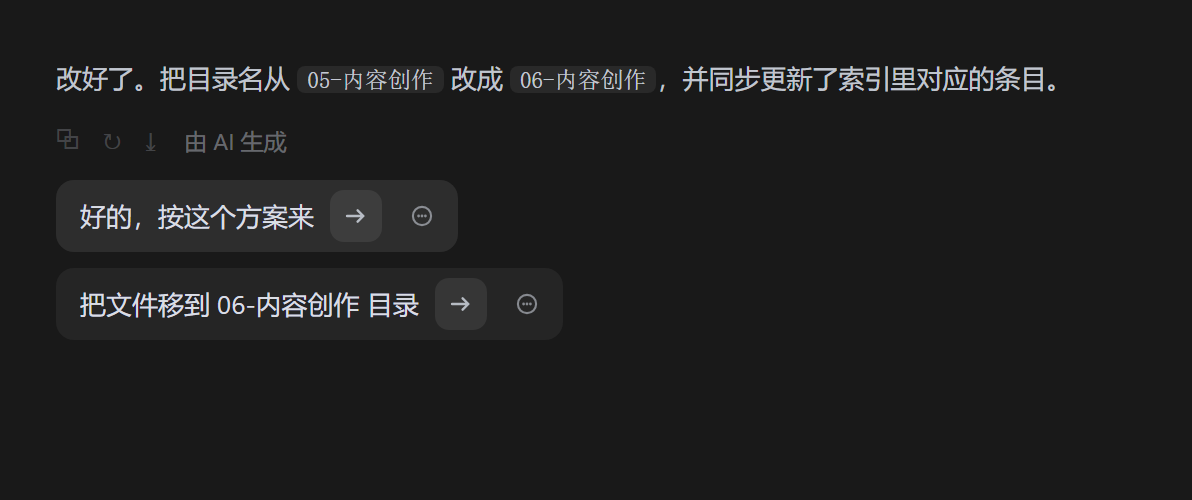
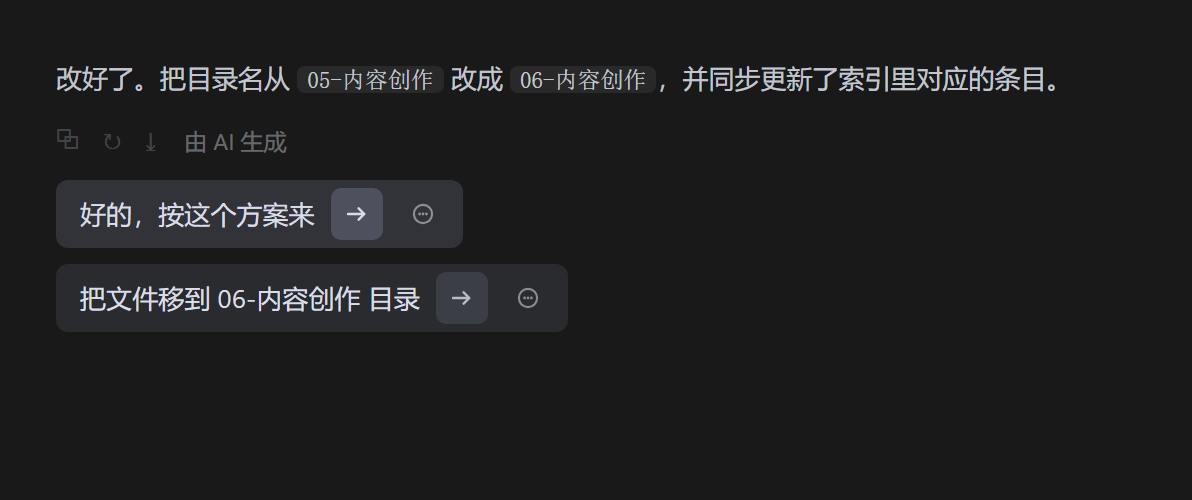
style: adopt Trae's follow-up card tokens
Found the real source: node_modules/@byted-icube/ai-modules-chat/dist/index.css,
.welcome-followup-action. The card fill is rgba(194,202,242,.10) — a blue-tinted
grey, not a neutral white — with .15 on hover, 6px radius, 13px type and
.039px letter-spacing. The arrow button sits one step brighter in the same hue.

Changed region(s): [[0.0621, 0.36, 0.4035, 0.48], [0.0621, 0.54, 0.4346, 0.66], [0.4346, 0.57, 0.4656, 0.63]]

diff --git a/client.js b/client.js
@@ -46,25 +46,29 @@ window.__ModuleLoader__.load({
   from { opacity: 0; transform: translateY(2px); }
   to { opacity: 1; transform: none; }
 }
-/* 卡片式：整条一个圆角块，右侧「发送」按钮有独立底色，再右侧「添加到对话」。 */
+/* 照搬 Trae：@byted-icube/ai-modules-chat 的 .welcome-followup-action ——
+   底色 rgba(194,202,242,.1) 带蓝调（不是纯白），悬停 .15，圆角 6px，
+   字号 13px，文字色走 colorDefaultText。 */
 .dsh-followup-item {
   display: inline-flex;
   align-items: center;
   gap: 8px;
   max-width: 100%;
-  padding: 5px 6px 5px 12px;
+  height: 34px;
+  padding: 0 8px 0 12px;
   border: none;
-  border-radius: 9px;
-  background: rgba(255, 255, 255, 0.055);
+  border-radius: 6px;
+  background: rgba(194, 202, 242, 0.10);
   color: var(--dsw-alias-label-primary, #DADDE5);
   font-size: 13px;
   line-height: 20px;
+  letter-spacing: .039px;
   text-align: left;
   cursor: pointer;
   animation: dsh-followup-in 200ms ease-out both;
   transition: background 120ms ease;
 }
-.dsh-followup-item:hover { background: rgba(255, 255, 255, 0.09); }
+.dsh-followup-item:hover { background: rgba(194, 202, 242, 0.15); }
 @media (prefers-reduced-motion: reduce) { .dsh-followup-item { animation: none; } }
 .dsh-followup-text {
   min-width: 0;
@@ -72,6 +76,7 @@ window.__ModuleLoader__.load({
   text-overflow: ellipsis;
   white-space: nowrap;
 }
+/* 右侧「发送」方块：比卡片底再亮一档，同色系 */
 .dsh-followup-send {
   flex: none;
   display: inline-flex;
@@ -79,13 +84,13 @@ window.__ModuleLoader__.load({
   justify-content: center;
   width: 26px;
   height: 26px;
-  border-radius: 7px;
-  background: rgba(255, 255, 255, 0.08);
+  border-radius: 5px;
+  background: rgba(194, 202, 242, 0.12);
   color: var(--dsw-alias-label-secondary, rgba(232, 238, 250, 0.72));
   transition: background 120ms ease, color 120ms ease;
 }
 .dsh-followup-item:hover .dsh-followup-send {
-  background: rgba(255, 255, 255, 0.14);
+  background: rgba(194, 202, 242, 0.20);
   color: var(--dsw-alias-label-primary, #DADDE5);
 }
 .dsh-followup-add {
@@ -95,12 +100,12 @@ window.__ModuleLoader__.load({
   justify-content: center;
   width: 24px;
   height: 24px;
-  border-radius: 7px;
+  border-radius: 5px;
   color: var(--dsw-alias-label-tertiary, rgba(232, 238, 250, 0.5));
   transition: background 120ms ease, color 120ms ease;
 }
 .dsh-followup-add:hover {
-  background: rgba(255, 255, 255, 0.10);
+  background: rgba(194, 202, 242, 0.12);
   color: var(--dsw-alias-label-primary, #DADDE5);
 }
 `
